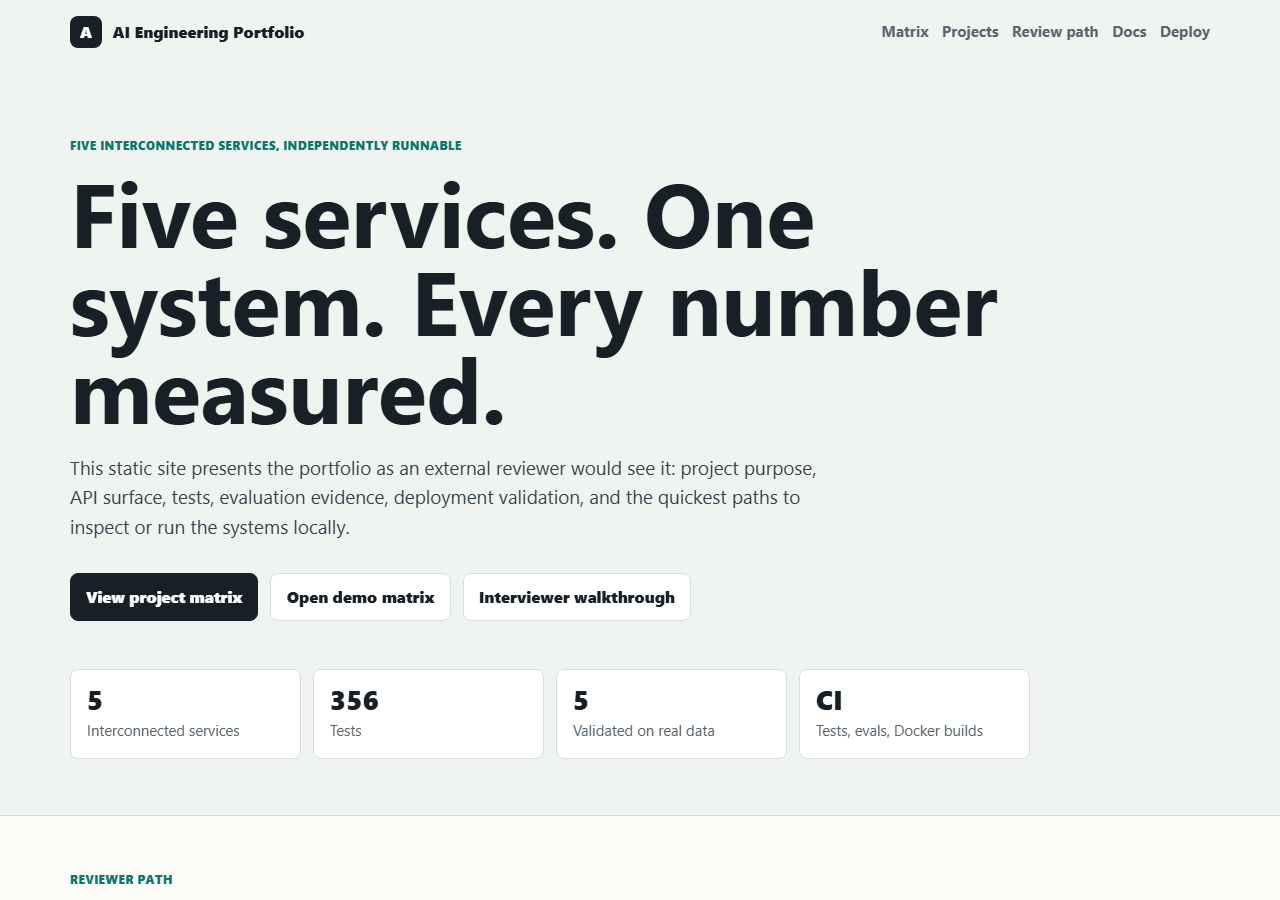
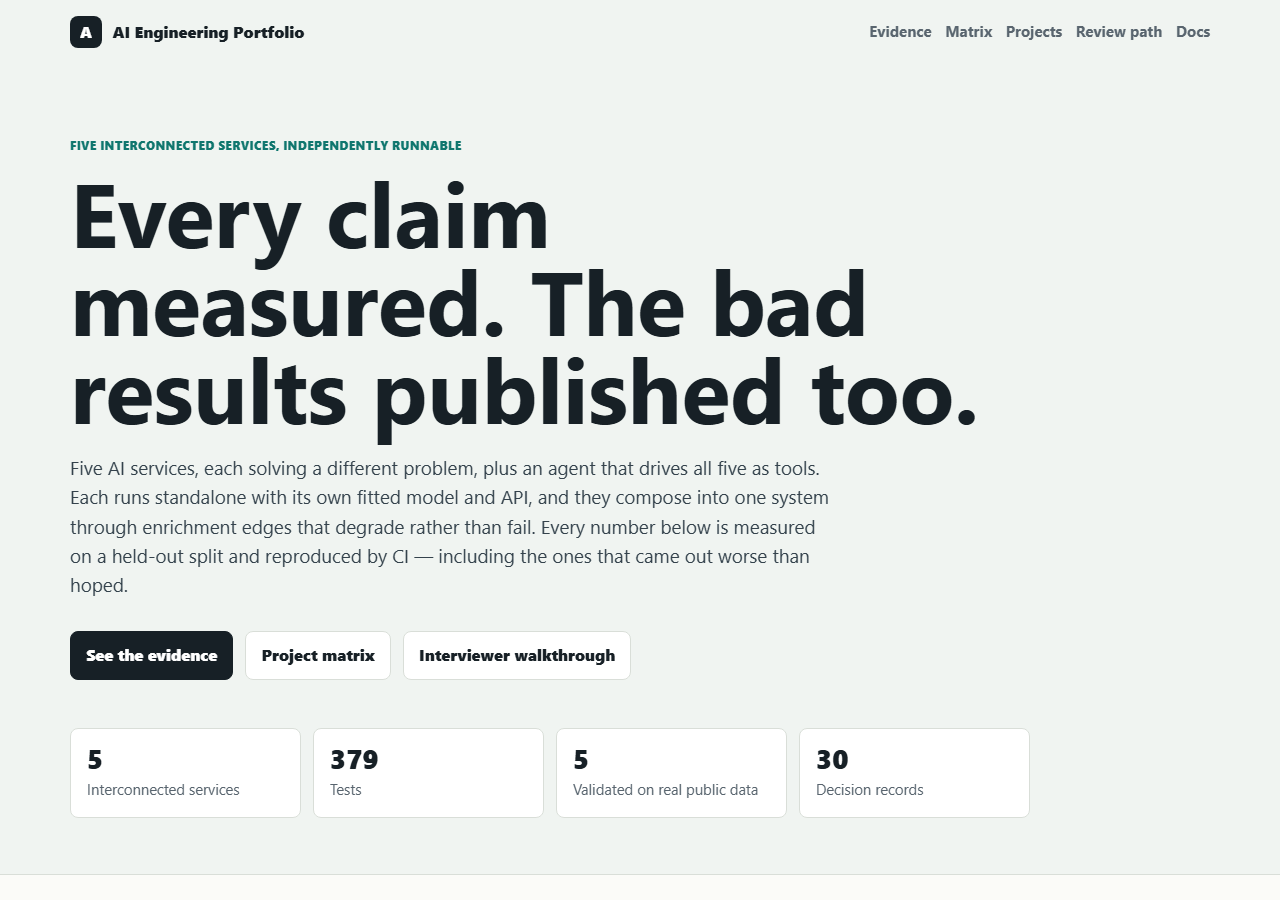
Correct the author title and refresh the landing-site screenshot

diff --git a/README.md b/README.md
@@ -693,5 +693,5 @@ that run on one machine.
 
 Adityansh Chand
 
-AI Software Engineer specializing in multi-agent systems, retrieval engineering,
+AI Engineer specializing in multi-agent systems, retrieval engineering,
 LLM architecture, and machine learning pipelines.
